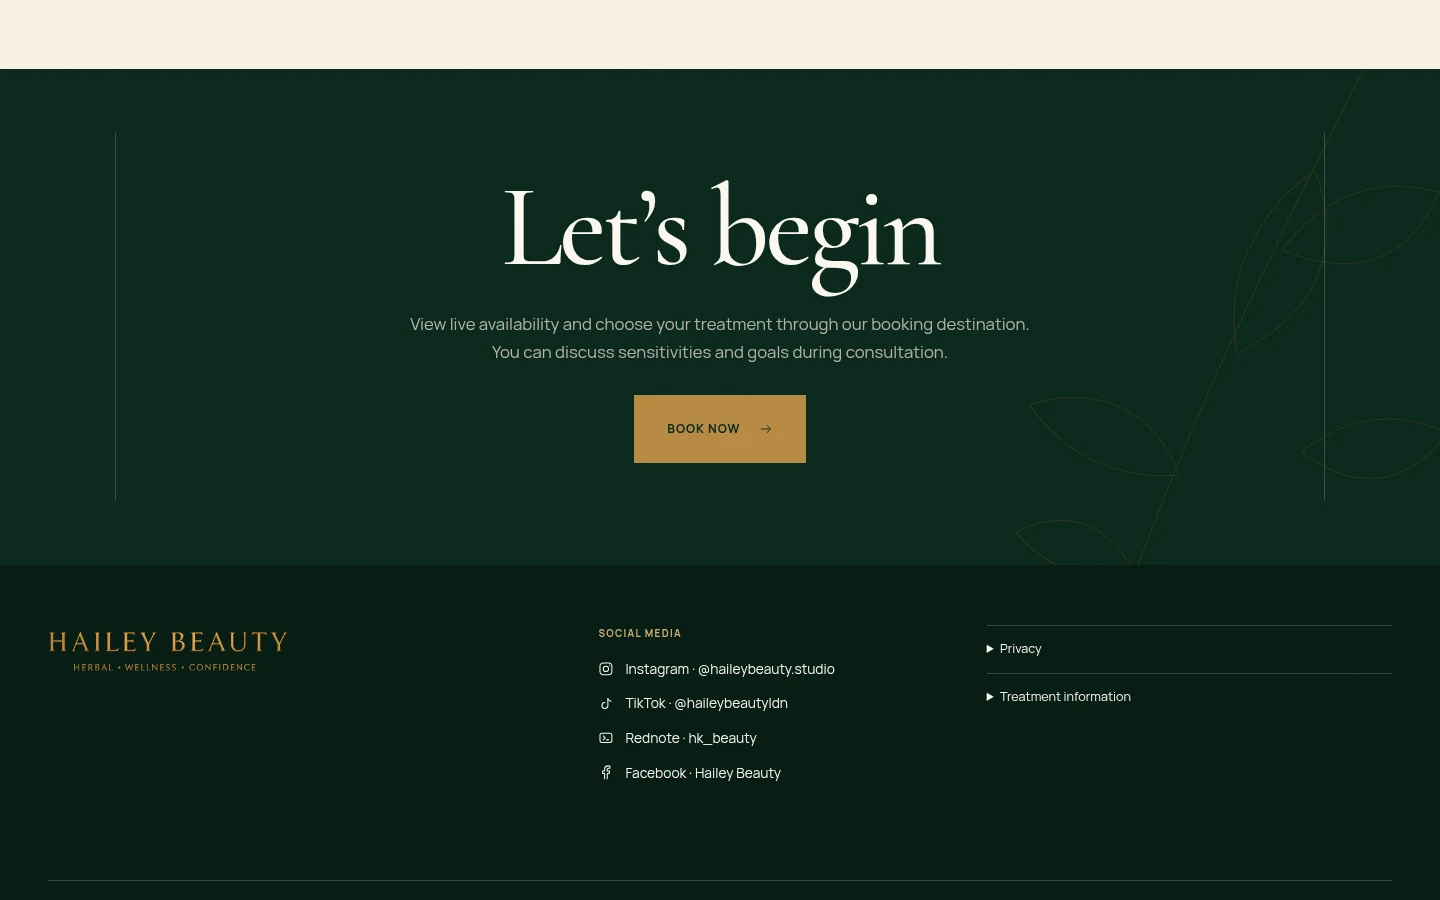
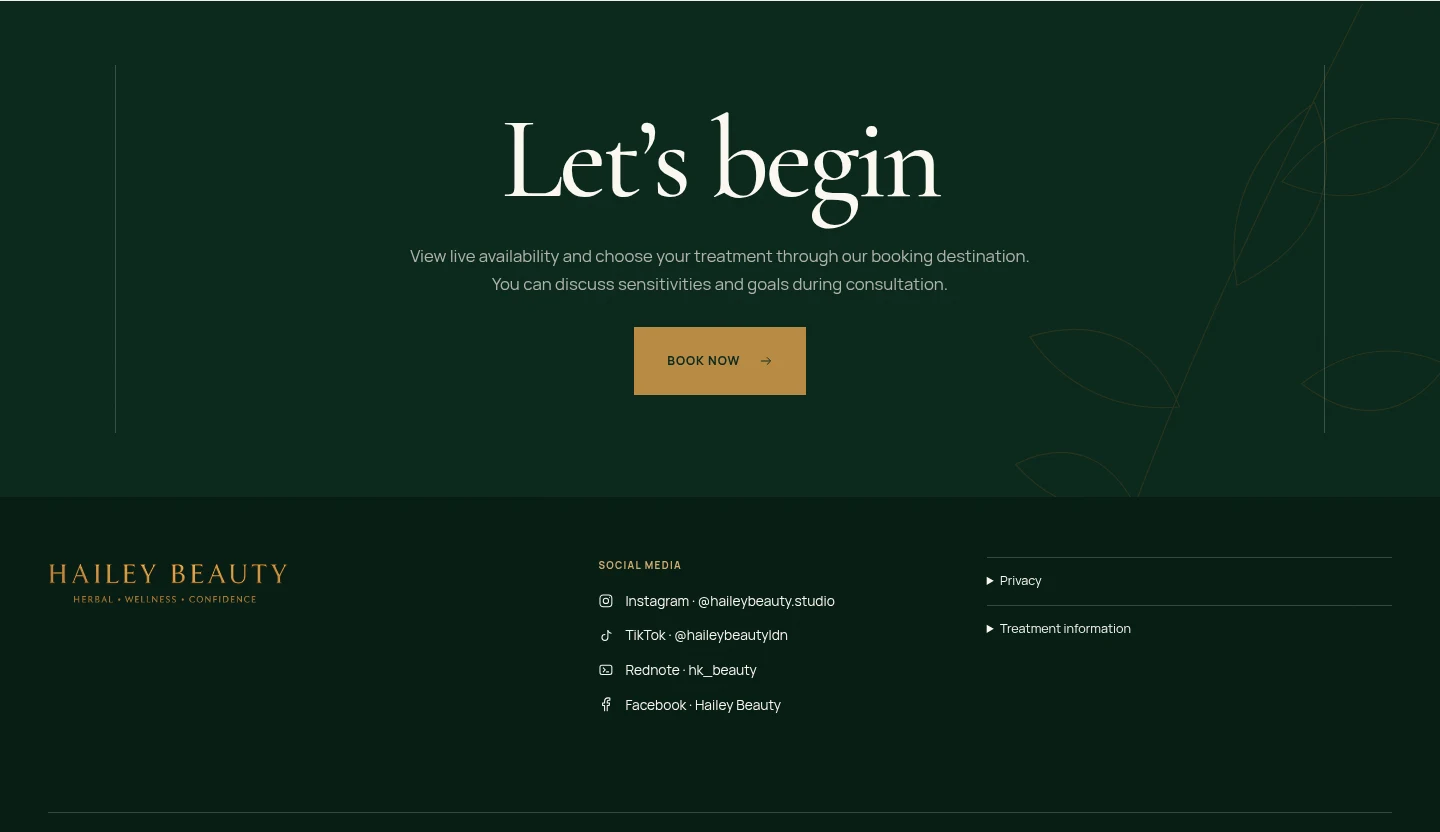
Crop screenshots and simplify image layout

diff --git a/README.md b/README.md
@@ -11,8 +11,11 @@ Live at **[hailey-beauty.pages.dev](https://hailey-beauty.pages.dev)**
 </p>
 
 <p align="center">
-  <img src="docs/screenshots/mobile-home.webp" alt="Hailey Beauty on a phone" width="30%" />
-  <img src="docs/screenshots/desktop-booking.webp" alt="Booking section and footer" width="69%" />
+  <img src="docs/screenshots/desktop-booking.webp" alt="Booking section and footer" />
+</p>
+
+<p align="center">
+  <img src="docs/screenshots/mobile-home.webp" alt="Hailey Beauty on a phone" width="280" />
 </p>
 
 ## What the site does
